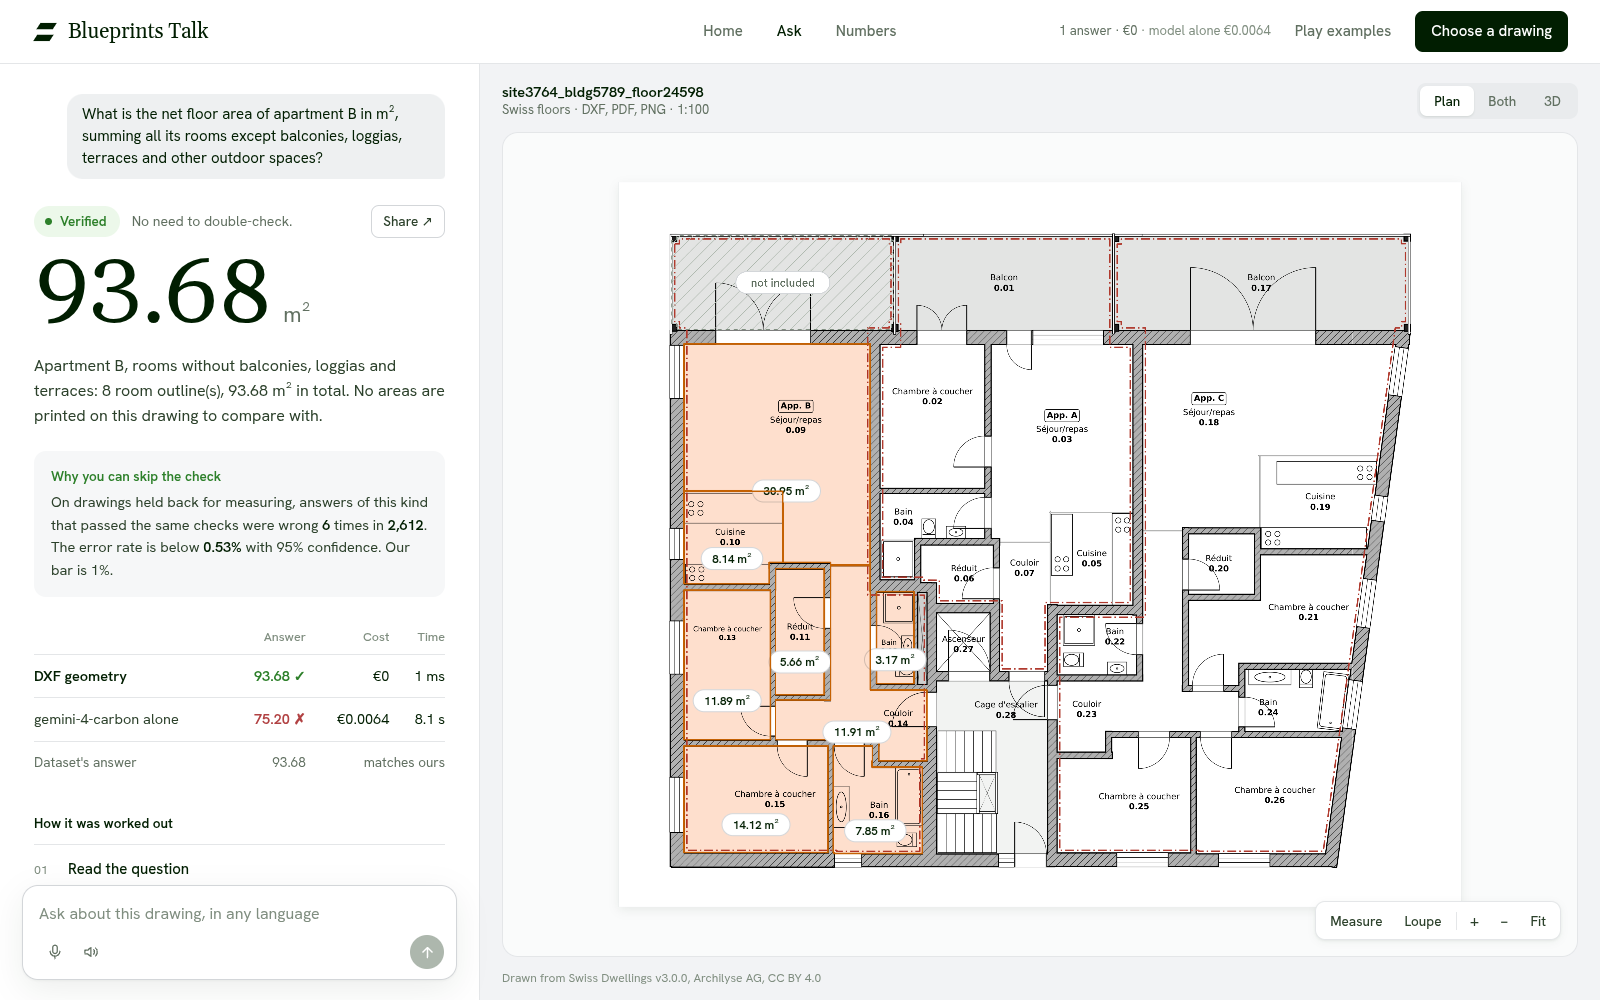
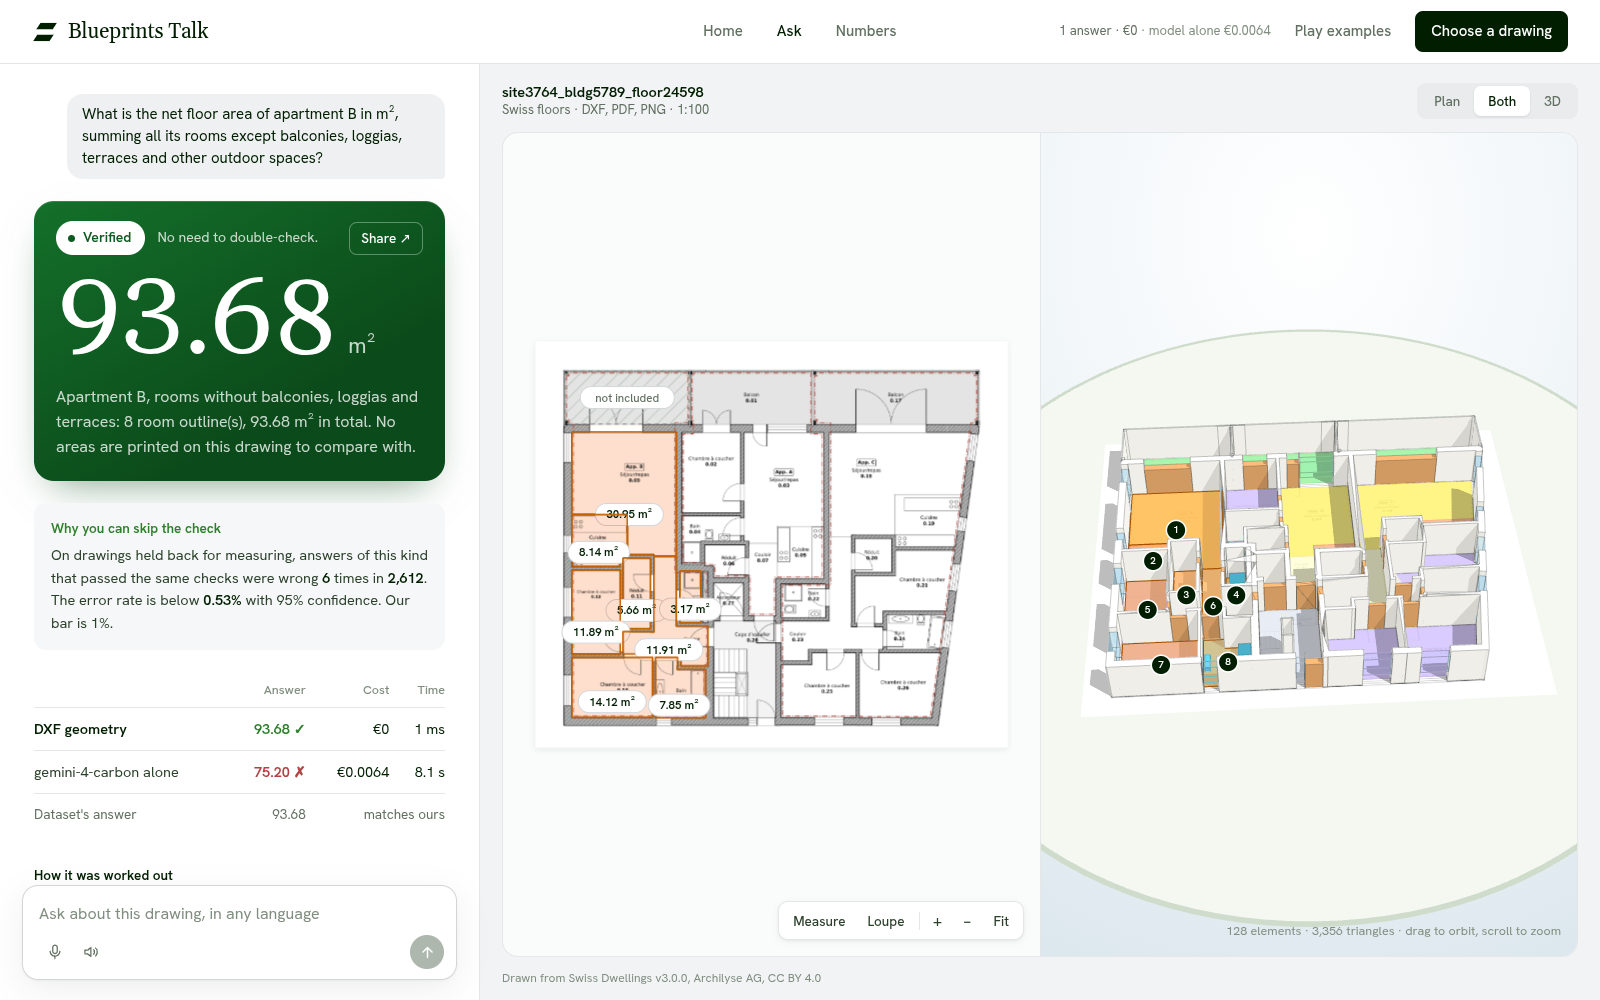
The answer stands on the colour of its state; the model on a round table under a sky
Verified is a green card, Check this amber, Can't answer red, with a small burst when
an answer is Verified. The 3D stage has a round table and a soft sky instead of a grey
grid, and roofs have their own colour. README and screenshots follow the new look.

diff --git a/web/src/Viewer3D.tsx b/web/src/Viewer3D.tsx
@@ -86,7 +86,8 @@ function styleOf(cls: string): Style {
   if (cls.startsWith("IfcWall") || cls === "wall") return { kind: "wall", paper: 0xf3f0e8 };
   if (cls === "IfcCurtainWall" || cls === "IfcPlate" || cls === "IfcWindow" || cls === "window") return { kind: "glass", paper: 0x9cc3ee, glass: true };
   if (cls === "IfcDoor" || cls === "door") return { kind: "door", paper: 0xb98d5f };
-  if (cls === "IfcSlab" || cls === "IfcRoof" || cls === "IfcFooting" || cls === "IfcCovering") return { kind: "slab", paper: 0xd8d3c7 };
+  if (cls === "IfcRoof") return { kind: "roof", paper: 0xd8d3c7 };
+  if (cls === "IfcSlab" || cls === "IfcFooting" || cls === "IfcCovering") return { kind: "slab", paper: 0xd8d3c7 };
   if (cls === "room") return { kind: "floor", paper: 0xe9e4d8 };
   if (cls.startsWith("IfcFurnishing") || cls === "IfcFurniture") return { kind: "furniture", paper: 0xc8c0b0 };
   if (cls === "IfcStair" || cls === "IfcStairFlight" || cls === "IfcRailing" || cls === "IfcRamp") return { kind: "stair", paper: 0xbcb5a6 };
@@ -97,14 +98,14 @@ function styleOf(cls: string): Style {
 
 // A white architectural model: sunlight and soft shadows, fine dark edges, one warm accent for the answer.
 const PAPER = {
-  background: 0xfafbfb as number | null, edge: 0x2a302b, edgeOpacity: 0.26, grid: 0xdfe2e0, gridOpacity: 0.7,
+  edge: 0x2a302b, edgeOpacity: 0.26, table: 0xf4f8f1, rim: 0xcfdccb,
   count: new THREE.Color(0xc46103), area: new THREE.Color(0xe8843a), off: new THREE.Color(0xa9b0a9),
   countEdge: 0x7a3a00, areaEdge: 0xa65100, sheet: "#ffffff",
   sky: 0xffffff, bounce: 0xe9ebe9, ambient: 2.35, sun: 2.1, fill: 0.5, shadow: 0.26,
 };
 // The same model at night: one key light on a dark table, so the paper and the walls stand out.
 const NIGHT: typeof PAPER = {
-  ...PAPER, background: null, edge: 0x0c1f0e, edgeOpacity: 0.34, grid: 0x2f5a34, gridOpacity: 0.32,
+  ...PAPER, edge: 0x0c1f0e, edgeOpacity: 0.34, table: 0x174a1e, rim: 0x2c6a34,
   count: new THREE.Color(0xf07a14), area: new THREE.Color(0xf0903f), sheet: "#f4f6f1",
   sky: 0xf2f6f2, bounce: 0x2c5a31, ambient: 2.0, sun: 2.7, fill: 0.42, shadow: 0.5,
 };
@@ -112,6 +113,7 @@ const NIGHT: typeof PAPER = {
 const FACE: Record<string, number> = {
   wall: 0xfffdf8, slab: 0xf0e8da, floor: 0xffffff, glass: 0x7cc4ff, door: 0xdfa368, furniture: 0xf4c25a,
   stair: 0xe58a6b, frame: 0x7f93b3, fixture: 0x4fc3e0, proxy: 0xe0d8cc, other: 0xb9d9c6, space: 0xe8843a, site: 0xcfe3bf,
+  roof: 0xe07f63,
 };
 
 // Rooms are tinted by what they are for, read from the name printed in them (German, French, Italian, English).
@@ -208,7 +210,7 @@ export function Viewer3D({ meshUrl, groundUrl, imageUrl, highlights, visible, ho
     let disposed = false;
     setStatus("loading");
 
-    const renderer = new THREE.WebGLRenderer({ antialias: true, preserveDrawingBuffer: true, alpha: look.background === null });
+    const renderer = new THREE.WebGLRenderer({ antialias: true, preserveDrawingBuffer: true, alpha: true });  // the page shows behind
     renderer.setPixelRatio(Math.min(window.devicePixelRatio, 2));
     renderer.shadowMap.enabled = true;
     renderer.shadowMap.type = THREE.PCFSoftShadowMap;
@@ -220,7 +222,6 @@ export function Viewer3D({ meshUrl, groundUrl, imageUrl, highlights, visible, ho
     el.appendChild(labels.domElement);
 
     const scene = new THREE.Scene();
-    if (look.background !== null) scene.background = new THREE.Color(look.background);
     const camera = new THREE.PerspectiveCamera(38, el.clientWidth / Math.max(el.clientHeight, 1), 0.1, 5000);
     const controls = new OrbitControls(camera, renderer.domElement);
     controls.enableDamping = true;
@@ -448,14 +449,15 @@ export function Viewer3D({ meshUrl, groundUrl, imageUrl, highlights, visible, ho
         modelBox.set(new THREE.Vector3(b[0], b[2], -b[4]), new THREE.Vector3(b[3], b[5], -b[1]));
       }
 
-      // A drafting grid under the model.
+      // A round table under the model, with a fine rim.
       const span = modelBox.getSize(new THREE.Vector3());
       const reach = Math.max(span.x, span.z) * 2.6;
-      const cells = Math.max(10, Math.min(80, Math.round(reach / (reach > 120 ? 5 : 1))));
-      const grid = new THREE.GridHelper(reach, cells, look.grid, look.grid);
-      const gridMaterial = grid.material as THREE.LineBasicMaterial;
-      gridMaterial.transparent = true;
-      gridMaterial.opacity = look.gridOpacity;
+      const round = Math.hypot(span.x, span.z) * 0.78;
+      const grid = new THREE.Group();
+      const top = new THREE.Mesh(new THREE.CircleGeometry(round, 128), new THREE.MeshBasicMaterial({ color: look.table }));
+      const rim = new THREE.Mesh(new THREE.RingGeometry(round, round * 1.012, 128), new THREE.MeshBasicMaterial({ color: look.rim }));
+      top.rotation.x = rim.rotation.x = -Math.PI / 2;
+      grid.add(top, rim);
       grid.position.set((modelBox.min.x + modelBox.max.x) / 2, modelBox.min.y - 0.03, (modelBox.min.z + modelBox.max.z) / 2);
       scene.add(grid);
 
@@ -471,7 +473,9 @@ export function Viewer3D({ meshUrl, groundUrl, imageUrl, highlights, visible, ho
       shade.far = radius * 7;
       shade.updateProjectionMatrix();
       // What the model stands on takes its shadow: on the sheet, or on the table when there is none.
-      const catcher = new THREE.Mesh(new THREE.PlaneGeometry(reach, reach), new THREE.ShadowMaterial({ opacity: look.shadow, depthWrite: false }));
+      // Round like the table when there is one, so no shadow falls past its edge.
+      const catcher = new THREE.Mesh(directed.current ? new THREE.PlaneGeometry(reach, reach) : new THREE.CircleGeometry(round, 96),
+        new THREE.ShadowMaterial({ opacity: look.shadow, depthWrite: false }));
       catcher.position.set(middle.x, -middle.z, modelBox.min.y + 0.012);
       catcher.receiveShadow = true;
       catcher.renderOrder = 1;
@@ -485,7 +489,7 @@ export function Viewer3D({ meshUrl, groundUrl, imageUrl, highlights, visible, ho
         // Fit the narrower of the two view angles, so a tall pane does not crop the model.
         const vertical = (camera.fov * Math.PI) / 360;
         const half = Math.min(vertical, Math.atan(Math.tan(vertical) * camera.aspect));
-        const distance = (radius / Math.sin(half)) * (bare ? 1.22 : 0.92);  // as a backdrop the model keeps its distance
+        const distance = (radius / Math.sin(half)) * (bare ? 1.22 : 1.04);  // as a backdrop the model keeps its distance
         // Keep the side the viewer is on; come lower to look at one item.
         const side = new THREE.Vector3().subVectors(camera.position, controls.target).setY(0);
         if (side.lengthSq() < 1e-6 || options.fromAbove) {  // stand facing the model's long side, a little off square

diff --git a/web/src/styles.css b/web/src/styles.css
@@ -594,3 +594,35 @@ h1, h2 { font-family: var(--serif); font-weight: 400; letter-spacing: -0.015em; 
   .story-copy { width: calc(100vw - 48px); left: 24px; }
   .scores { grid-template-columns: 1fr; }
 }
+
+/* ---------------------------------------------------------------- the answer card
+   The answer stands on the colour of its state: green to go, amber to look, red for no number. */
+.result-card { margin-top: 22px; padding: 20px 22px 22px; border-radius: 20px; color: var(--card-ink); background: var(--card-bg);
+  box-shadow: 0 1px 0 rgb(255 255 255 / 0.16) inset, 0 18px 40px -18px var(--card-glow); animation: rise 0.4s 0.05s ease-out both; position: relative; }
+.result-card.verified { --card-bg: linear-gradient(150deg, #14702a 0%, #0b4a1a 70%); --card-ink: #fff; --card-soft: rgb(255 255 255 / 0.78); --card-glow: rgb(11 74 26 / 0.55); --pill-bg: #fff; --pill-ink: #0f5a20; }
+.result-card.check { --card-bg: linear-gradient(150deg, #ffd35c 0%, #f6b62e 75%); --card-ink: #2b1d00; --card-soft: rgb(43 29 0 / 0.72); --card-glow: rgb(214 148 16 / 0.5); --pill-bg: #2b1d00; --pill-ink: #ffd35c; }
+.result-card.declined { --card-bg: linear-gradient(150deg, #d5524f 0%, #a93535 75%); --card-ink: #fff; --card-soft: rgb(255 255 255 / 0.8); --card-glow: rgb(169 53 53 / 0.5); --pill-bg: #fff; --pill-ink: #a93535; }
+.result-card .verdict { margin-top: 0; animation: none; }
+.result-card .pill { background: var(--pill-bg); color: var(--pill-ink); position: relative; font-size: 14px; padding: 6px 14px 6px 12px; }
+.result-card .verdict .line { color: var(--card-soft); }
+.result-card .verdict .share { color: var(--card-ink); border-color: color-mix(in srgb, var(--card-ink) 34%, transparent); }
+.result-card .verdict .share:hover:not(:disabled) { color: var(--card-ink); border-color: var(--card-ink); background: color-mix(in srgb, var(--card-ink) 10%, transparent); }
+.result-card .figure { margin-top: 16px; }
+.result-card .figure span { font-size: 104px; color: var(--card-ink); }
+.result-card .figure em { color: var(--card-soft); }
+.result-card .figure .none { font-size: 44px; color: var(--card-ink); }
+.result-card .explain { color: var(--card-soft); margin-top: 10px; }
+.result-card .adjusted { color: var(--card-soft); border-color: color-mix(in srgb, var(--card-ink) 40%, transparent); }
+.result-card .adjusted b { color: var(--card-ink); }
+
+.burst { position: absolute; left: 14px; top: 50%; width: 0; height: 0; pointer-events: none; }
+.burst b { position: absolute; width: 7px; height: 7px; border-radius: 2px; background: var(--c); opacity: 0;
+  animation: burst 0.9s cubic-bezier(0.15, 0.7, 0.25, 1) both; }
+@keyframes burst {
+  0% { transform: rotate(var(--a)) translateX(0) scale(0.4); opacity: 1; }
+  70% { opacity: 1; }
+  100% { transform: rotate(var(--a)) translateX(var(--d)) scale(1) rotate(160deg); opacity: 0; }
+}
+
+/* The model's stage: a soft sky, and the model on a round table. */
+.viewer3d:not(.night) { background: radial-gradient(120% 95% at 50% 12%, #ffffff 0%, #eef4f7 52%, #dde8ee 100%); }

diff --git a/web/src/AnswerPanel.tsx b/web/src/AnswerPanel.tsx
@@ -344,8 +344,13 @@ export function AnswerPanel(props: Props) {
     <article className={`answer state-${result.state}${asking ? " stale" : ""}`}>
       <p className="asked">{result.question}</p>
 
+      <div className={`result-card ${result.state}${settled ? " settled" : ""}`}>
       <div className="verdict">
-        <span className="pill"><i />{state.label}</span>
+        <span className="pill"><i />{state.label}
+          {settled && result.state === "verified" && (
+            <span className="burst" aria-hidden>{Array.from({ length: 14 }, (_, i) => <b key={i} style={{ "--a": `${i * 25.7 + 8}deg`, "--d": `${46 + (i % 4) * 16}px`, "--c": ["#ffffff", "#8be28f", "#ffd45e", "#ff9a5c"][i % 4] } as React.CSSProperties} />)}</span>
+          )}
+        </span>
         <span className="line">{state.line}</span>
         {props.onShare && result.answer !== null && (
           <button className="share" onClick={props.onShare} disabled={props.sharing} title="A single image of this answer with its evidence marked, to send or attach">
@@ -370,6 +375,7 @@ export function AnswerPanel(props: Props) {
           <button onClick={props.onRestore}>Put back</button>
         </p>
       )}
+      </div>
 
       {settled && (
         <section className="proof">

diff --git a/README.md b/README.md
@@ -49,19 +49,22 @@ The vision model in these runs is Gemini 4 Carbon at low thinking. Alone, it see
 
 ## The app
 
-![Thirty-two doors marked on the plan and in the 3D model raised from it, Verified](docs/screenshots/doors-verified.png)
+![The landing page: a real plan stands up as you scroll, and its doors open as they are counted](docs/screenshots/story-doors.png)
 
-Quiet and light, in the spirit of Stoa's own site. The answer reads like a short document on the left; the drawing it came from is on the right.
+The landing page is a story told by scrolling. A real drawing from the dataset lies flat, stands up into a painted model, opens its doors as they are counted and adds up an apartment's rooms, on a background that changes colour with each chapter. Every figure in it is the engine's answer to a real question, asked when the page loads.
 
-- **The answer column:** the question, the state, the figure, why it can be trusted or needs a look, this system beside a vision model alone (answer, cost, time), how it was worked out step by step, and every counted item cut out of the drawing.
+![Thirty-two doors marked on the plan and in the model raised from it, Verified](docs/screenshots/doors-verified.png)
+
+- **The answer card:** the number stands on the colour of its state: green for Verified, amber for Check this, red for Can't answer reliably. Under it: why it can be trusted or needs a look, this system beside a vision model alone (answer, cost, time), how it was worked out step by step, and every counted item cut out of the drawing.
 - **On the sheet:** a fine ring and a numbered dot on each counted item, a tint and an area plate on each measured room. They appear as a reading line crosses the sheet, and the figure climbs with them. Click any mark to leave it out; the answer follows.
-- **In 3D:** a white model with the plan as its floor. A Swiss plan is raised from its DXF; an IFC model is cut open at the storey; an answer spread over several storeys lifts them apart and tallies each one.
+- **In 3D:** a painted model in sunlight, standing on the plan as its floor. Rooms are tinted by their use, read from the names printed in them; glass, doors and fixtures have their own colours. A counted door swings open. An IFC model is cut open at the storey; an answer spread over several storeys lifts them apart and tallies each one.
+- **By voice:** ask aloud, and the drawing answers aloud in the first person ("I count thirty-two doors. Verified.").
 - **Checking tools:** inspect the items one by one, measure on the sheet where its scale is known, enlarge the drawing under a loupe, and see a small scan sharper with **Enhance**.
 - **Bring your own drawing:** an image or a PDF opens like any other and is read as it came. **Share** makes one image of an answer with its evidence marked.
 
 | | |
 | --- | --- |
-| ![The home page](docs/screenshots/home.png) | ![An apartment's rooms tinted with their areas](docs/screenshots/apartment-paper.png) |
+| ![The landing page's first screen](docs/screenshots/home.png) | ![An apartment's rooms tinted with their areas](docs/screenshots/apartment-paper.png) |
 | ![A storey of an IFC model cut open with its doors marked](docs/screenshots/ifc-storey.png) | ![An IFC model with its storeys lifted apart and a door tally beside each](docs/screenshots/ifc-storeys-apart.png) |
 
 The left and right arrow keys step through ten prepared examples; "Play examples" runs them on their own.
